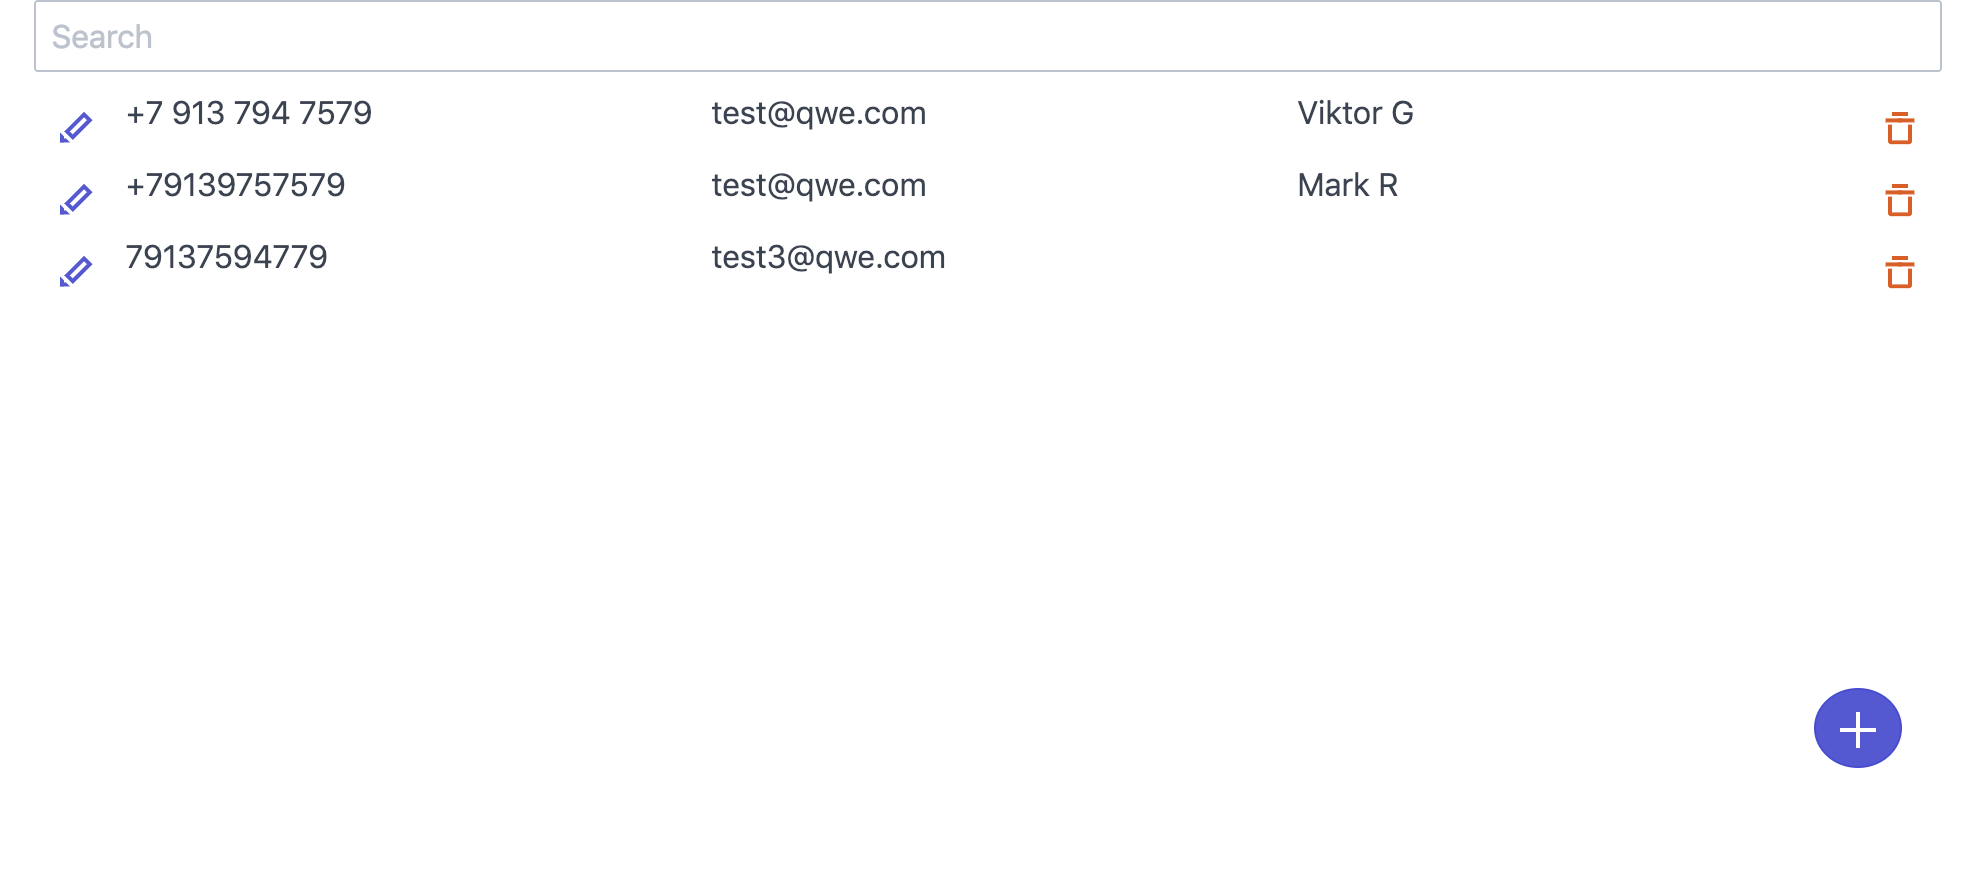
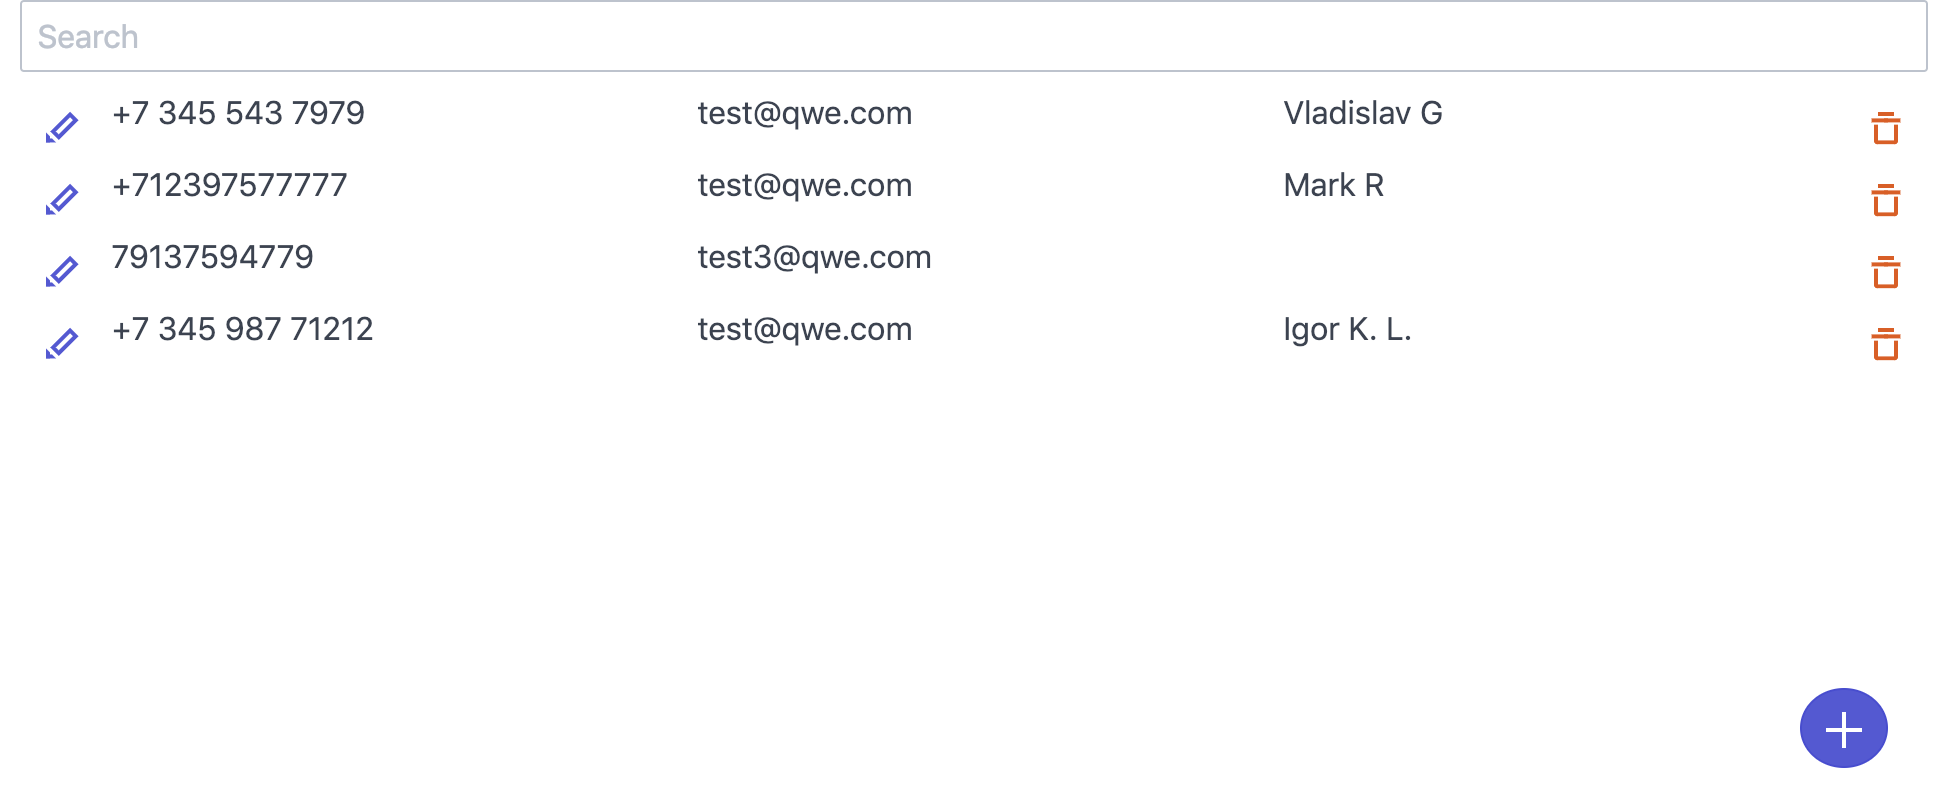
preview updated

diff --git a/server/routes/api/phoneBookCRUD.js b/server/routes/api/phoneBookCRUD.js
@@ -2,9 +2,10 @@ var express = require('express');
 var router = express.Router();
 
 const phoneBookDb = require('../../models/phoneBook.db');
-phoneBookDb.create({name: 'Viktor G', phone: '+7 913 794 7579', email: 'test@qwe.com'});
-phoneBookDb.create({name: 'Mark R', phone: '+79139757579', email: 'test@qwe.com'});
+phoneBookDb.create({name: 'Vladislav G', phone: '+7 345 543 7979', email: 'test@qwe.com'});
+phoneBookDb.create({name: 'Mark R', phone: '+712397577777', email: 'test@qwe.com'});
 phoneBookDb.create({phone: '79137594779', email: 'test3@qwe.com'});
+phoneBookDb.create({name: 'Igor K. L.', phone: '+7 345 987 71212', email: 'test@qwe.com'});
 
 router.get('/', function (req, res) {
   res.json(phoneBookDb.get());
